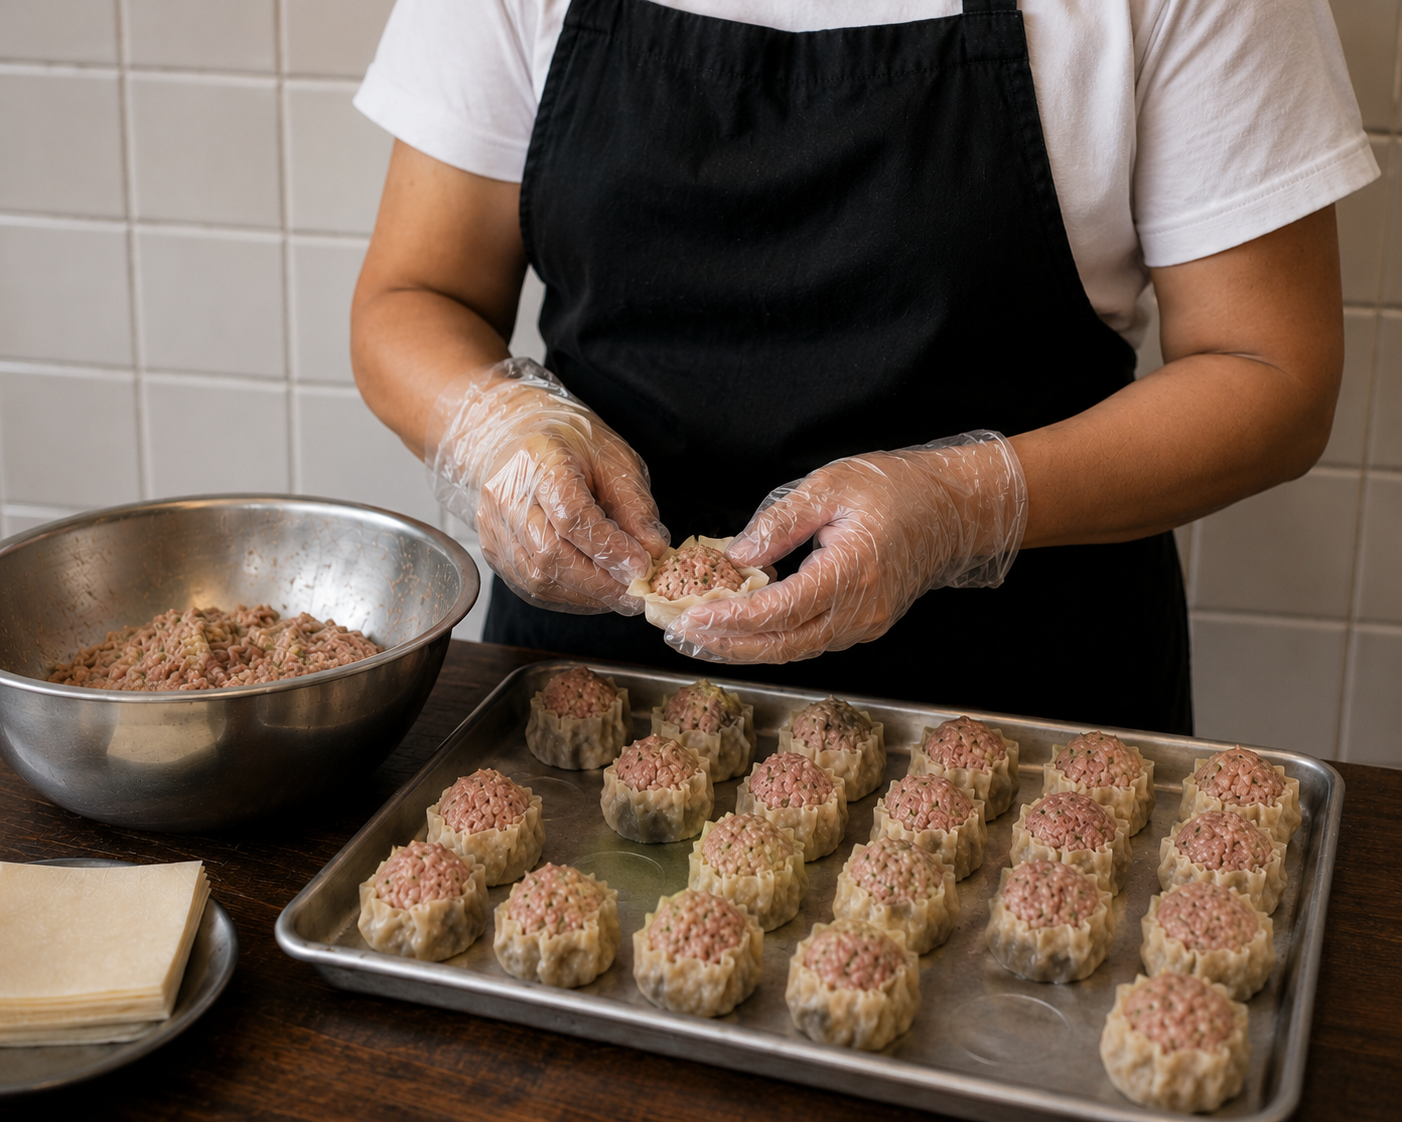
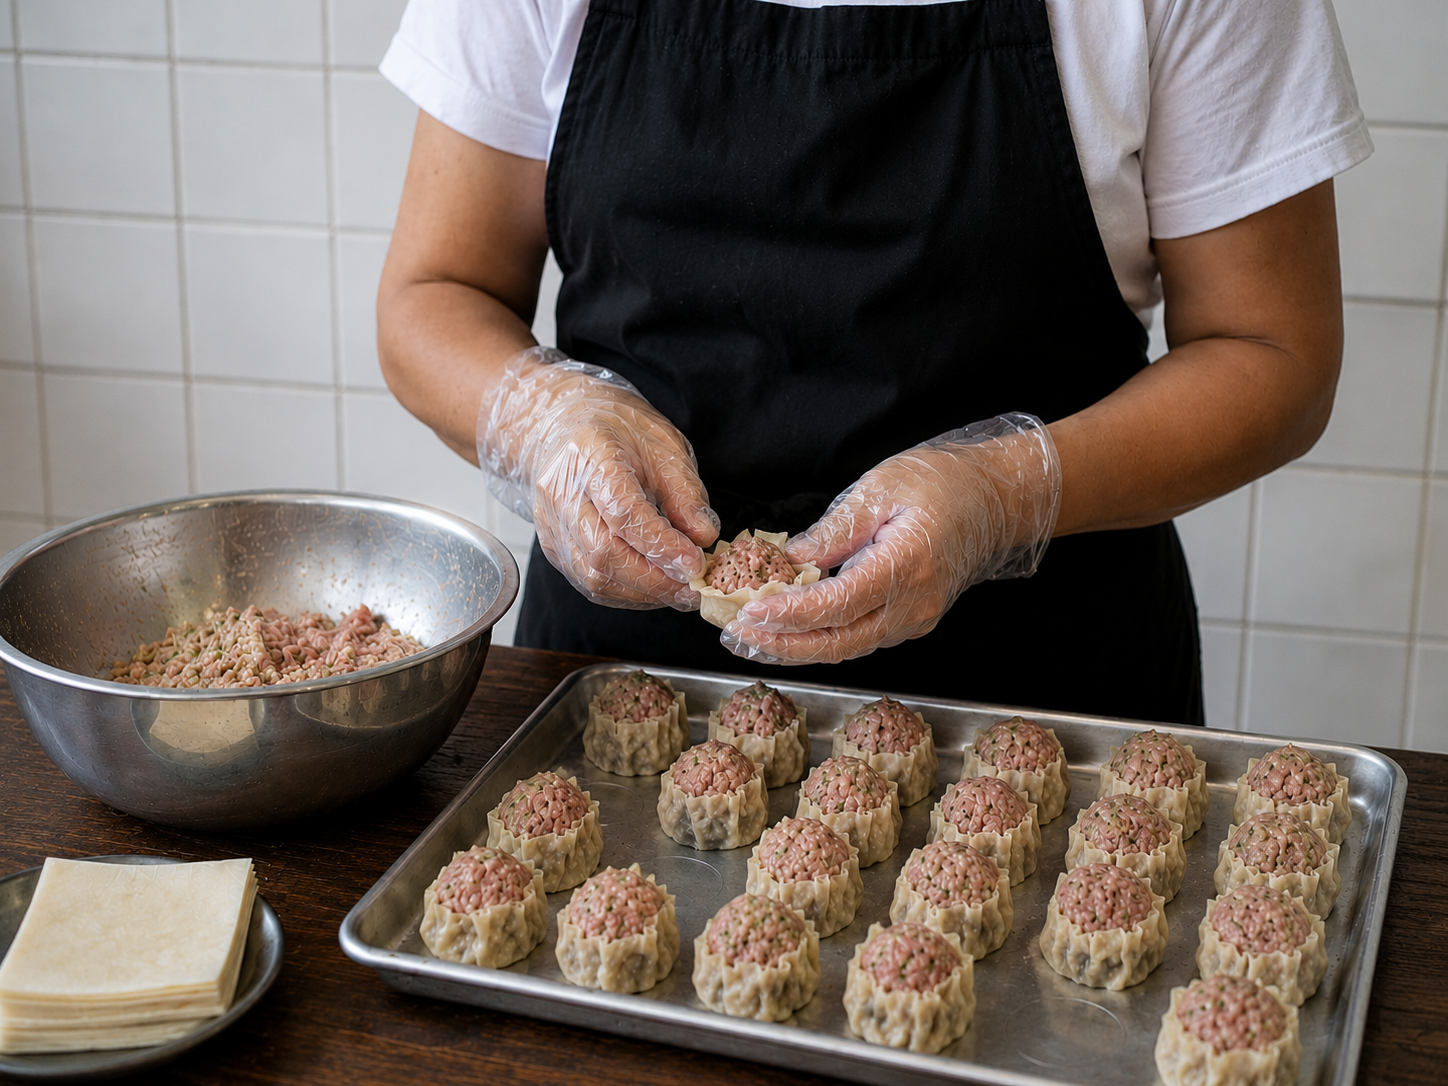
fix new landing page

diff --git a/frontend/components/TestimonialSection.tsx b/frontend/components/TestimonialSection.tsx
@@ -1,4 +1,7 @@
-import React from "react";
+"use client";
+
+import React, { useState, useEffect, useCallback } from "react";
+import useEmblaCarousel from "embla-carousel-react";
 import { siteContent } from "@/data/siteContent";
 import RevealWrapper from "@/components/RevealWrapper";
 import { buildWhatsAppLink, generalOrderMessage } from "@/utils/whatsapp";
@@ -6,10 +9,52 @@ import { buildWhatsAppLink, generalOrderMessage } from "@/utils/whatsapp";
 export default function TestimonialSection() {
   const { label, headline, headlineBreak, subheadline, posts, ctaText, ctaButton } = siteContent.testimonials as any;
 
+  const [emblaRef, emblaApi] = useEmblaCarousel({
+    loop: true,
+    align: "start",
+    dragFree: false,
+    containScroll: "trimSnaps",
+  });
+
+  const [selectedIndex, setSelectedIndex] = useState(0);
+  const [scrollSnaps, setScrollSnaps] = useState<number[]>([]);
+
+  const scrollPrev = useCallback(() => {
+    if (emblaApi) emblaApi.scrollPrev();
+  }, [emblaApi]);
+
+  const scrollNext = useCallback(() => {
+    if (emblaApi) emblaApi.scrollNext();
+  }, [emblaApi]);
+
+  const scrollTo = useCallback(
+    (index: number) => {
+      if (emblaApi) emblaApi.scrollTo(index);
+    },
+    [emblaApi]
+  );
+
+  const onInit = useCallback((emblaApi: any) => {
+    setScrollSnaps(emblaApi.scrollSnapList());
+  }, []);
+
+  const onSelect = useCallback((emblaApi: any) => {
+    setSelectedIndex(emblaApi.selectedScrollSnap());
+  }, []);
+
+  useEffect(() => {
+    if (!emblaApi) return;
+    onInit(emblaApi);
+    onSelect(emblaApi);
+    emblaApi.on("reInit", onInit);
+    emblaApi.on("reInit", onSelect);
+    emblaApi.on("select", onSelect);
+  }, [emblaApi, onInit, onSelect]);
+
   return (
     <section 
       id="testimonials"
-      className="section-shell relative w-full bg-brand-cream"
+      className="section-shell relative w-full bg-brand-cream overflow-hidden"
     >
       <div className="section-inner flex flex-col items-center">
         {/* Header Area */}
@@ -52,63 +97,105 @@ export default function TestimonialSection() {
           </div>
         </RevealWrapper>
 
-        {/* 3 Cards Grid */}
-        <div 
-          className="grid w-full mx-auto max-w-[1100px]"
-          style={{
-            gridTemplateColumns: "repeat(auto-fit, minmax(280px, 1fr))",
-            gap: "clamp(24px, 3vw, 32px)",
-            marginBottom: "clamp(48px, 6vw, 64px)",
-          }}
-        >
-          {posts.map((post: any, index: number) => (
-            <RevealWrapper 
-              key={post.id} 
-              delay={150 * index}
-              className={`flex w-full ${index === 2 ? "md:col-span-2 lg:col-span-1" : ""}`}
+        {/* Embla Carousel Wrapper */}
+        <div className="w-full max-w-[1180px] mx-auto relative px-2 md:px-8 lg:px-12" style={{ marginBottom: "48px" }}>
+          
+          <div className="relative w-full">
+            {/* Navigation Arrows */}
+            <button 
+              onClick={scrollPrev}
+              className="absolute left-1 md:left-[-20px] lg:left-[-28px] top-1/2 -translate-y-1/2 z-20 flex h-[42px] w-[42px] md:h-12 md:w-12 items-center justify-center rounded-full border border-[#d8b36a]/50 bg-[#fff8ed]/90 text-[#6b0f0f] shadow-md backdrop-blur-sm transition-all duration-300 hover:bg-[#4b0705] hover:border-[#4b0705] hover:text-[#FDF8EE]"
+              aria-label="Previous slide"
             >
-              <div 
-                className="flex flex-col w-full h-full transition-shadow duration-500 hover:shadow-xl group"
-                style={{
-                  backgroundColor: "rgba(253, 248, 238, 0.8)", // ivory semitransparent
-                  border: "1px solid rgba(199, 146, 62, 0.3)", // thin gold/maroon border
-                  borderRadius: "20px",
-                  padding: "clamp(28px, 4vw, 36px)",
-                  boxShadow: "0 8px 30px -10px rgba(75, 25, 20, 0.05)"
-                }}
-              >
-                <div 
-                  className="font-editorial text-[#C7923E] opacity-70 mb-4"
-                  style={{ fontSize: "40px", lineHeight: 1 }}
-                >
-                  “
-                </div>
-                <h3 
-                  className="font-sans font-bold text-[#4b0705]"
-                  style={{
-                    fontSize: "clamp(18px, 2vw, 20px)",
-                    marginBottom: "12px",
-                  }}
-                >
-                  {post.title}
-                </h3>
-                <p 
-                  className="font-sans text-[#4b0705]/80"
-                  style={{
-                    fontSize: "clamp(15px, 1.5vw, 16px)",
-                    lineHeight: 1.6,
-                  }}
-                >
-                  {post.text}
-                </p>
+              <svg width="24" height="24" viewBox="0 0 24 24" fill="none" stroke="currentColor" strokeWidth="2" strokeLinecap="round" strokeLinejoin="round">
+                <polyline points="15 18 9 12 15 6"></polyline>
+              </svg>
+            </button>
+            
+            <button 
+              onClick={scrollNext}
+              className="absolute right-1 md:right-[-20px] lg:right-[-28px] top-1/2 -translate-y-1/2 z-20 flex h-[42px] w-[42px] md:h-12 md:w-12 items-center justify-center rounded-full border border-[#d8b36a]/50 bg-[#fff8ed]/90 text-[#6b0f0f] shadow-md backdrop-blur-sm transition-all duration-300 hover:bg-[#4b0705] hover:border-[#4b0705] hover:text-[#FDF8EE]"
+              aria-label="Next slide"
+            >
+              <svg width="24" height="24" viewBox="0 0 24 24" fill="none" stroke="currentColor" strokeWidth="2" strokeLinecap="round" strokeLinejoin="round">
+                <polyline points="9 18 15 12 9 6"></polyline>
+              </svg>
+            </button>
+
+            {/* Embla Viewport */}
+            <div className="overflow-hidden w-full cursor-grab active:cursor-grabbing rounded-2xl" ref={emblaRef}>
+              <div className="flex" style={{ touchAction: "pan-y", gap: "24px" }}>
+                {posts.map((post: any, index: number) => (
+                  <div 
+                    key={post.id} 
+                    className="flex-[0_0_100%] md:flex-[0_0_calc((100%-24px)/2)] lg:flex-[0_0_calc((100%-48px)/3)] min-w-0"
+                  >
+                    <div 
+                      className="flex flex-col w-full h-full"
+                      style={{
+                        backgroundColor: "#FDF8EE",
+                        border: "1px solid rgba(199, 146, 62, 0.3)",
+                        borderRadius: "24px",
+                        padding: "clamp(24px, 3vw, 32px)",
+                        boxShadow: "0 4px 20px -10px rgba(75, 7, 5, 0.05)"
+                      }}
+                    >
+                      {/* Header: Name, Role, Rating */}
+                      <div className="flex flex-col mb-4 pb-4 border-b border-[#4b0705]/10">
+                        <div className="flex justify-between items-start mb-2">
+                          <h3 className="font-editorial text-2xl text-[#4b0705] leading-none">
+                            {post.name}
+                          </h3>
+                          <span className="text-[#C7923E] tracking-widest text-[12px] mt-1">
+                            {"★".repeat(post.rating || 5)}
+                          </span>
+                        </div>
+                        <div className="flex justify-between items-center">
+                          {post.label && (
+                            <span className="text-[10px] uppercase tracking-wider font-bold bg-[#4b0705]/5 text-[#4b0705] py-1.5 px-3 rounded-md">
+                              {post.label}
+                            </span>
+                          )}
+                        </div>
+                      </div>
+                      
+                      {/* Text */}
+                      <p 
+                        className="font-sans text-[#4b0705]/85"
+                        style={{
+                          fontSize: "15px",
+                          lineHeight: 1.65,
+                        }}
+                      >
+                        “{post.text}”
+                      </p>
+                    </div>
+                  </div>
+                ))}
               </div>
-            </RevealWrapper>
-          ))}
+            </div>
+          </div>
+          
+          {/* Dots Indicator */}
+          <div className="flex justify-center mt-10 gap-2">
+            {scrollSnaps.map((_, index) => (
+              <button
+                key={index}
+                onClick={() => scrollTo(index)}
+                className={`w-2.5 h-2.5 rounded-full transition-all duration-300 ${
+                  index === selectedIndex 
+                    ? "bg-[#4b0705] scale-125" 
+                    : "bg-[#C7923E]/30 hover:bg-[#C7923E]/60"
+                }`}
+                aria-label={`Go to slide ${index + 1}`}
+              />
+            ))}
+          </div>
         </div>
 
         {/* CTA Area */}
-        <RevealWrapper delay={400}>
-          <div className="flex flex-col items-center text-center">
+        <RevealWrapper delay={200}>
+          <div className="flex flex-col items-center text-center mt-12">
             <p 
               className="font-sans font-medium mb-5"
               style={{

diff --git a/frontend/data/siteContent.ts b/frontend/data/siteContent.ts
@@ -191,21 +191,16 @@ export const siteContent = {
     headlineBreak: "Tentang Sio Mei",
     subheadline: "Ruang untuk menampilkan ulasan pelanggan, dokumentasi pesanan, dan feedback partner yang pernah mencoba Sio Mei.",
     posts: [
-      { 
-        id: 1, 
-        title: "Ulasan Pelanggan", 
-        text: "Tempat untuk menampilkan testimoni asli dari pelanggan yang sudah mencoba Sio Mei." 
-      },
-      { 
-        id: 2, 
-        title: "Dokumentasi Pesanan", 
-        text: "Ruang untuk menampilkan screenshot order, repeat order, atau dokumentasi pengiriman." 
-      },
-      { 
-        id: 3, 
-        title: "Feedback Partner", 
-        text: "Ruang untuk ulasan reseller, cafe, restoran, atau partner B2B yang bekerja sama." 
-      }
+      { id: 1, name: "Sekar", label: "Stok Rumah", rating: 5, text: "Packaging frozen-nya rapi dan mudah disimpan. Kalau ingin camilan cepat, tinggal kukus atau goreng." },
+      { id: 2, name: "Raka", label: "Repeat Order", rating: 5, text: "Teksturnya lembut dan isiannya gurih. Sudah beberapa kali pesan karena rasanya konsisten." },
+      { id: 3, name: "Gendis", label: "Acara Keluarga", rating: 5, text: "Saya pesan untuk acara keluarga di rumah. Praktis disajikan dan banyak yang cocok dengan rasanya." },
+      { id: 4, name: "Damar", label: "Siap Goreng", rating: 5, text: "Versi gorengnya enak, bagian luarnya renyah tapi dalamnya tetap lembut. Cocok untuk camilan sore." },
+      { id: 5, name: "Kirana", label: "Kukus Hangat", rating: 5, text: "Dikukus sebentar langsung siap makan. Aromanya enak dan rasanya gurih tanpa perlu tambahan macam-macam." },
+      { id: 6, name: "Banyu", label: "Pesanan Kantor", rating: 5, text: "Pernah pesan untuk teman-teman kantor, penyajiannya mudah dan porsinya pas untuk sharing." },
+      { id: 7, name: "Laras", label: "Frozen Praktis", rating: 5, text: "Suka karena bisa disimpan di freezer. Saat butuh makanan cepat, tinggal diolah sesuai selera." },
+      { id: 8, name: "Aruna", label: "Pesanan WhatsApp", rating: 5, text: "Proses pemesanan mudah lewat WhatsApp, respons cepat, dan produk datang dalam kondisi baik." },
+      { id: 9, name: "Mahesa", label: "Camilan Keluarga", rating: 5, text: "Anak-anak suka karena teksturnya lembut. Rasanya gurih dan tidak terlalu berat untuk camilan." },
+      { id: 10, name: "Nares", label: "Siap Saji", rating: 5, text: "Sio Mei-nya praktis banget. Bisa dikukus untuk rasa klasik atau digoreng kalau ingin lebih renyah." }
     ],
     ctaText: "Ingin mencoba Sio Mei untuk acara atau kebutuhan bisnis?",
     ctaButton: "Konsultasi via WhatsApp →"
@@ -227,6 +222,10 @@ export const siteContent = {
       {
         q: "Bagaimana cara menyajikan Sio Mei?",
         a: "Sio Mei dapat disajikan dengan cara dikukus untuk tekstur lembut, digoreng untuk sensasi renyah, atau disimpan frozen untuk stok praktis."
+      },
+      {
+        q: "Resep apa yang digunakan untuk Sio Mei Babah Sapi?",
+        a: "Sio Mei Babah Sapi dibuat dari resep keluarga turun-temurun yang dijaga cita rasanya. Kami menyesuaikannya agar tetap gurih, lembut, dan cocok dinikmati dalam berbagai cara penyajian, baik dikukus, digoreng, maupun dalam format frozen."
       },
       {
         q: "Apakah tersedia harga untuk reseller atau B2B?",

diff --git a/frontend/components/Hero.tsx b/frontend/components/Hero.tsx
@@ -673,7 +673,7 @@ const Hero = () => {
                   className="hero-premium-btn group !bg-transparent !border !border-white/30 !text-white hover:!border-white/80"
                 >
                   <span className="relative z-10 transition-colors duration-500 group-hover:text-[#4a0907]">
-                    <span className="hidden sm:inline">Ajukan </span>Kerja Sama B2B
+                    Kerja Sama B2B
                   </span>
                   <span className="relative z-10 transform transition-transform duration-500 group-hover:translate-x-1">→</span>
                   <span className="absolute inset-0 bg-white transform origin-left scale-x-0 transition-transform duration-500 ease-[0.22,1,0.36,1] group-hover:scale-x-100" />